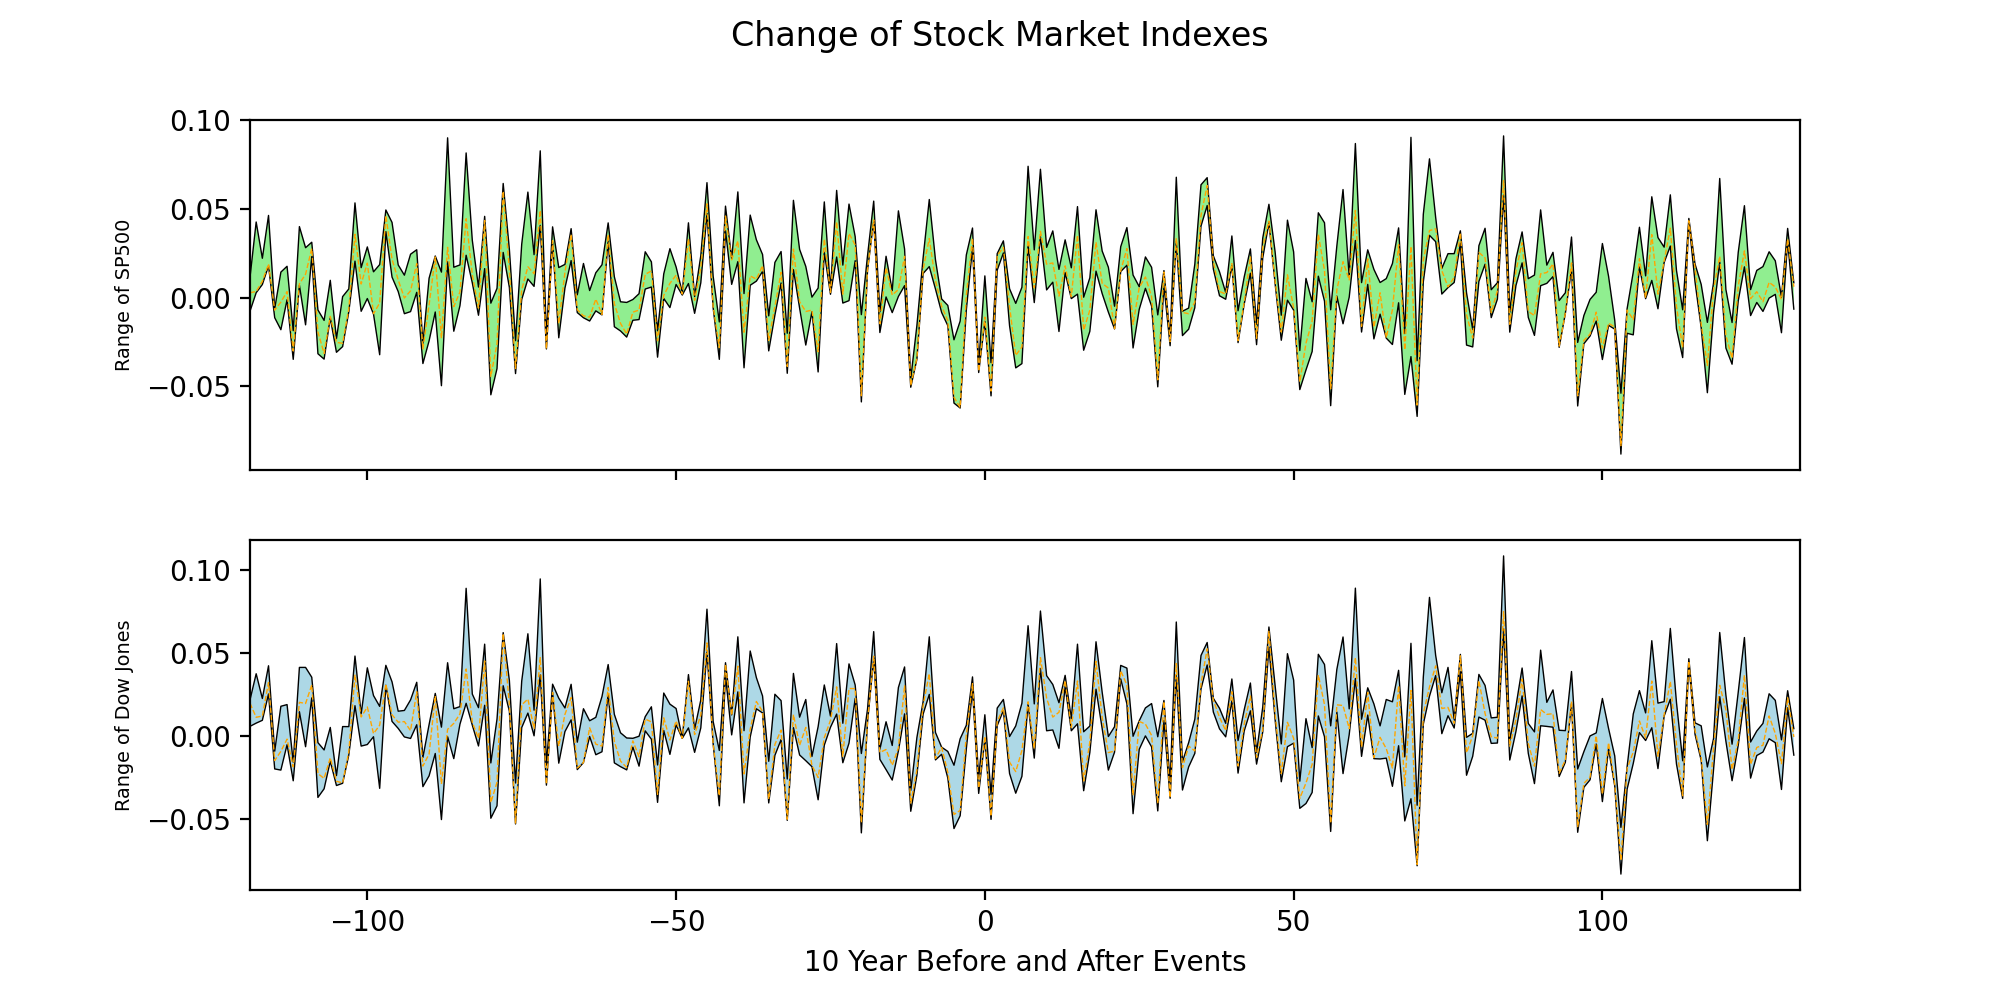
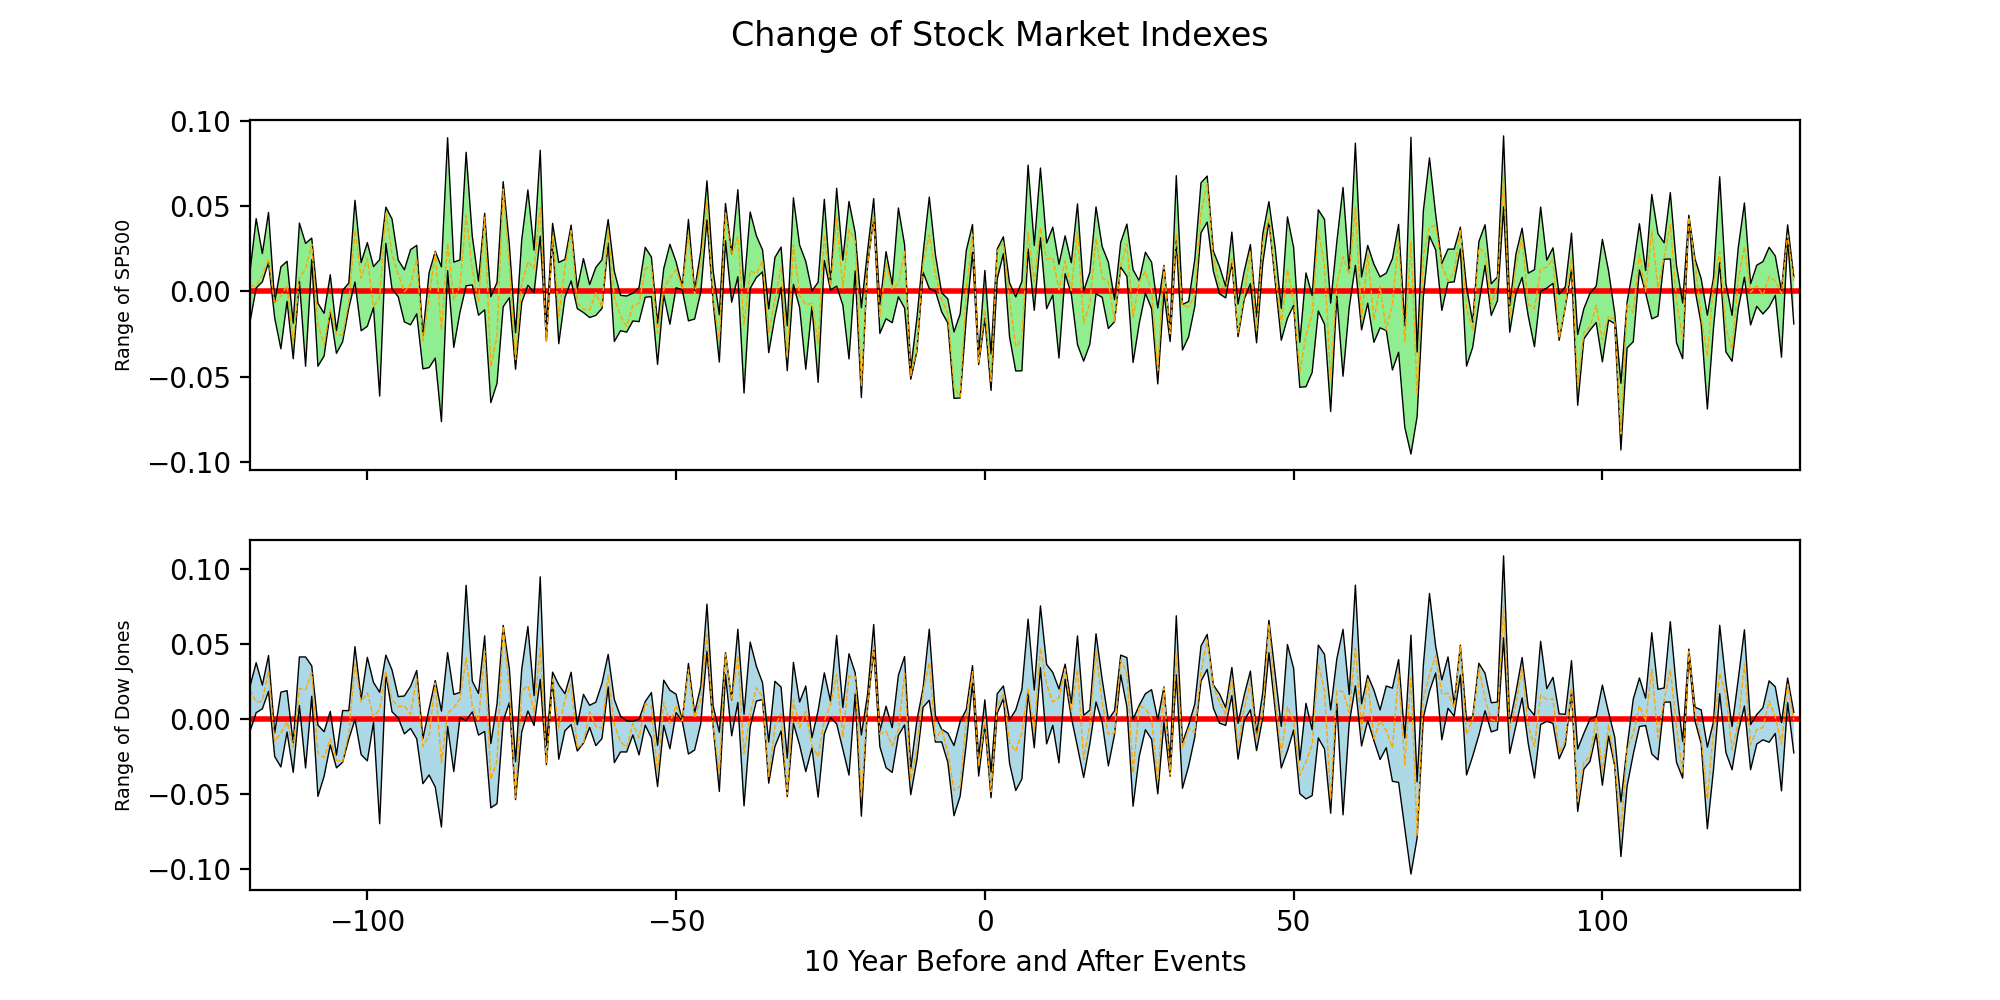
use add_mean_and_quartiles() in plot_sp_dj() and add y=0 in plots

diff --git a/final_project.py b/final_project.py
@@ -781,14 +781,9 @@ def plot_sp_dj(df1: pd.DataFrame, df2: pd.DataFrame, year_num: int, plot_name: s
     df1.index = df1.index - (12 * year_num)
     df2.index = df2.index - (12 * year_num)
 
-    # TODO - Kangyang, I factored this out as add_mean_and_quartiles() - use that now instead?
     # get the 25 and 75 percentile bounds for plotting
-    df1["75pct"] = df1.apply(pd.DataFrame.describe, axis=1)["75%"]
-    df1["25pct"] = df1.apply(pd.DataFrame.describe, axis=1)["25%"]
-    df1["median"] = df1.median(axis=1)
-    df2["75pct"] = df2.apply(pd.DataFrame.describe, axis=1)["75%"]
-    df2["25pct"] = df2.apply(pd.DataFrame.describe, axis=1)["25%"]
-    df2["median"] = df2.median(axis=1)
+    df1 = add_mean_and_quartiles(df1)
+    df2 = add_mean_and_quartiles(df2)
 
     fig, (ax3, ax4) = plt.subplots(2, sharex=True, figsize=(10, 5))
     fig.suptitle('Change of Stock Market Indexes')
@@ -802,12 +797,14 @@ def plot_sp_dj(df1: pd.DataFrame, df2: pd.DataFrame, year_num: int, plot_name: s
     ax3.plot(df1.index, df1["75pct"], color='black', label='75% percentile', linewidth=0.5)
     ax3.plot(df1.index, df1["25pct"], color='black', label='25% percentile', linewidth=0.5)
     ax3.plot(df1.index, df1["median"], '--', color='orange', label='median', linewidth=0.5)
+    ax3.hlines(y=0, xmin = - (12 * year_num), xmax = 12 * (year_num + 1), linewidth=2, color='r')
     ax3.fill_between(df1.index, df1["75pct"], df1["25pct"], facecolor='lightgreen')
     ax3.set_ylabel("Range of SP500", fontsize='x-small')
 
     ax4.plot(df2.index, df2["75pct"], color='black', label='75% percentile', linewidth=0.5)
     ax4.plot(df2.index, df2["25pct"], color='black', label='25% percentile', linewidth=0.5)
     ax4.plot(df2.index, df2["median"], '--', color='orange', label='median', linewidth=0.5)
+    ax4.hlines(y=0, xmin=- (12 * year_num), xmax=12 * (year_num + 1), linewidth=2, color='r')
     ax4.fill_between(df2.index, df2["75pct"], df2["25pct"], facecolor='lightblue')
     ax4.set_xlim(-12 * year_num + 1, 12 * (year_num + 1))
     ax4.set_xlabel(str(year_num) + " Year Before and After Events")
